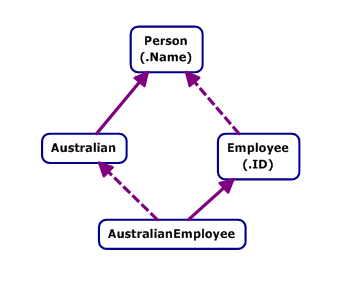
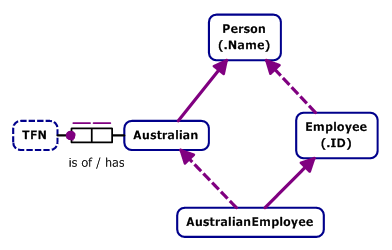
Updated MultiInheritance example

Changed region(s): [[0.0288, 0.028, 0.9798, 0.952]]

diff --git a/examples/ruby/MultiInheritance.rb b/examples/ruby/MultiInheritance.rb
@@ -20,7 +20,7 @@ module MultiInheritance
   end
 
   class Australian < Person
-    has_one :tfn, TFN                           # See TFN.all_australian
+    one_to_one :tfn, TFN                        # See TFN.australian
   end
 
   class Employee < Person
